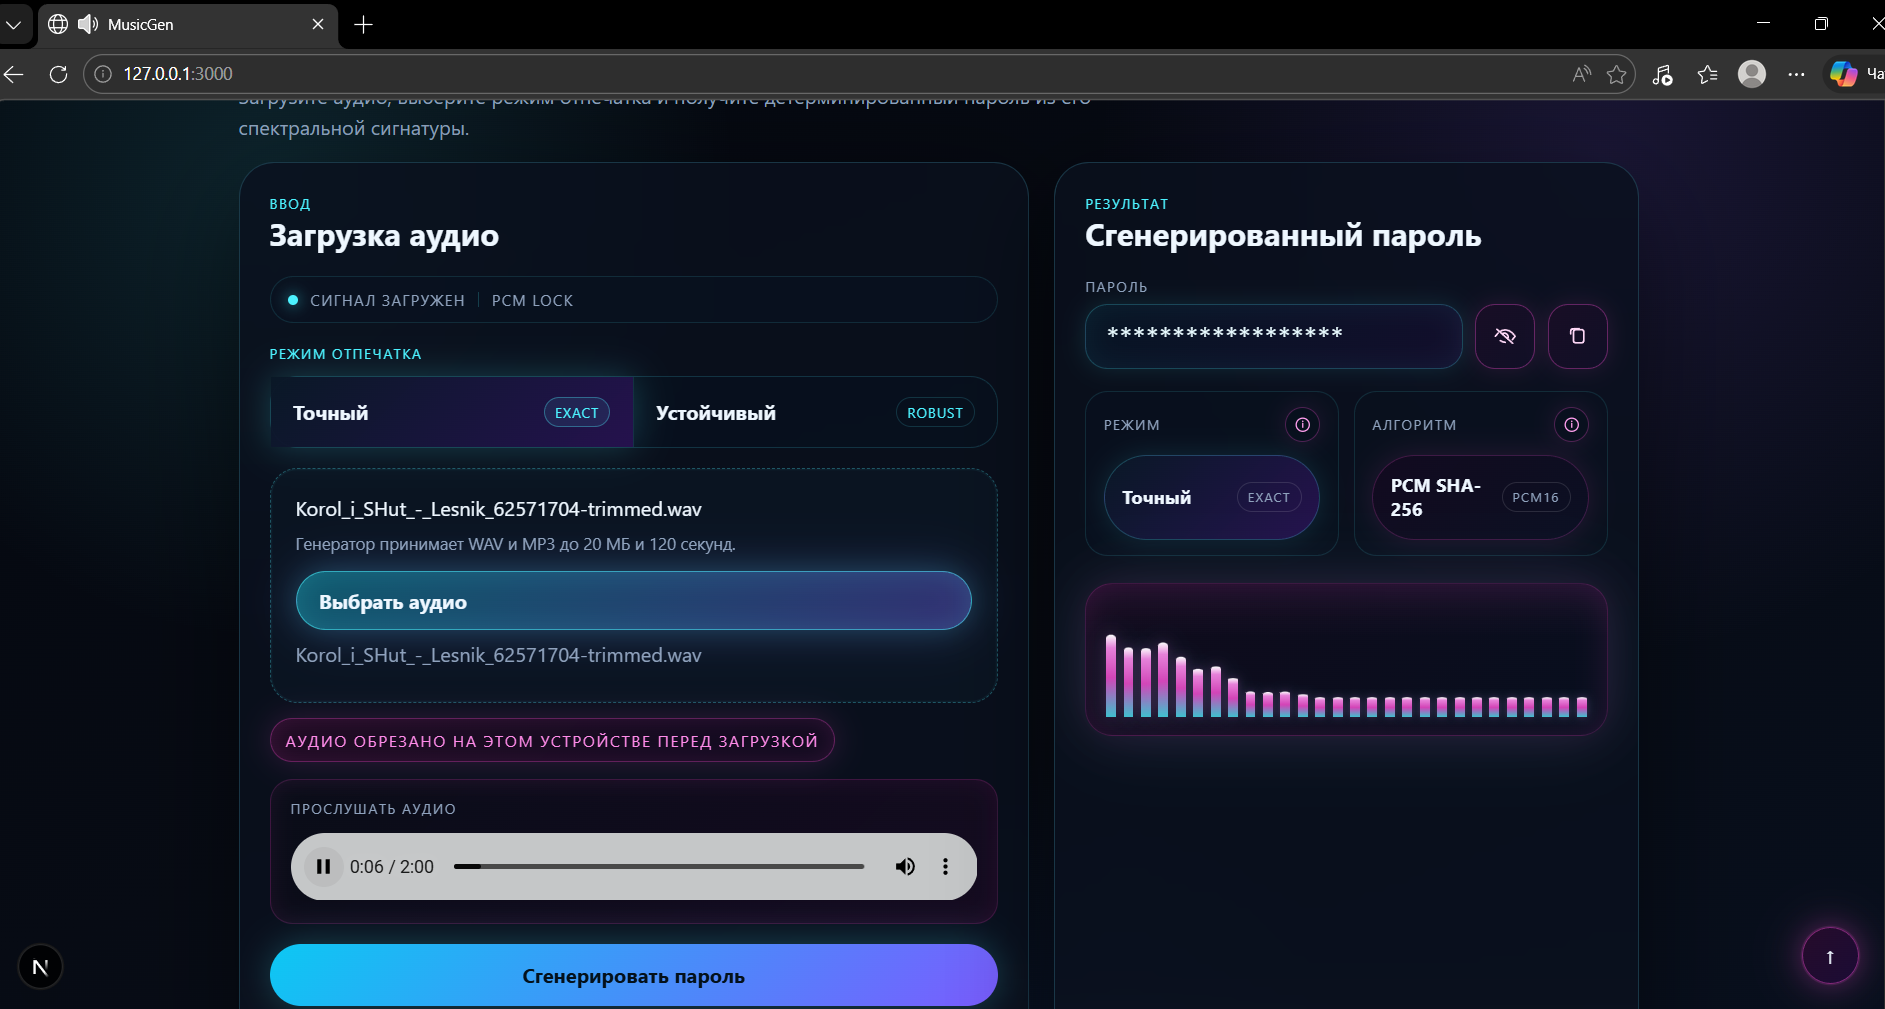
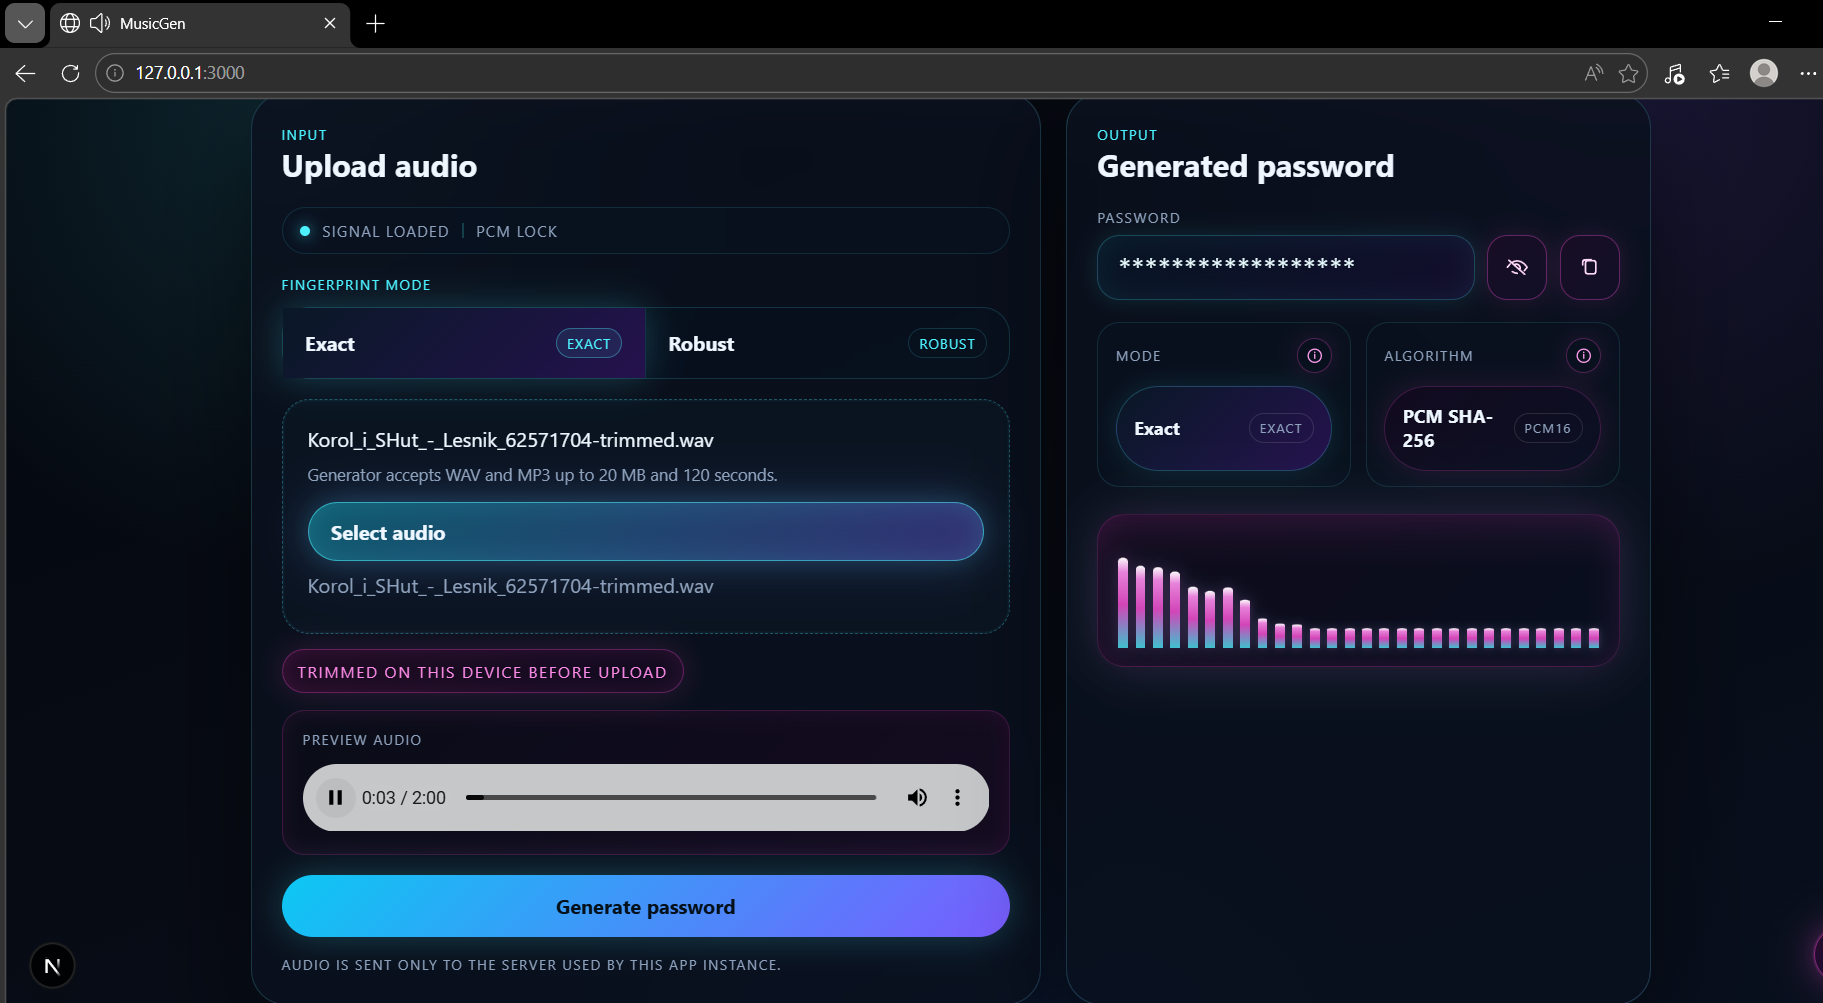
MusicGen: refresh README screenshots in English

diff --git a/README.md b/README.md
@@ -115,7 +115,7 @@ If you want the build and packaging steps, use the full [technical guide](d:/pro
 
 ![MusicGen home screen](docs/screenshots/home-main.png)
 
-The main web screen with the logo, language switcher, and the project pitch.
+The main English web screen with the logo, language switcher, and the core layout.
 
 ### Mode selection and audio upload
 
@@ -133,19 +133,19 @@ If the uploaded file exceeds the configured limits, MusicGen offers to trim it b
 
 ![Generated password](docs/screenshots/generated-password.png)
 
-The result panel with the generated password, mode, algorithm, and quick actions such as show, hide, and copy.
+The result panel with the generated password, mode, algorithm, and quick actions such as show, hide, and copy after an English-language run.
 
 ### Playback visualization
 
 ![Playback visualization](docs/screenshots/audio-visualizer.png)
 
-The neon playback visualizer that reacts while the uploaded audio is playing.
+The neon playback visualizer reacting to the uploaded audio during playback.
 
 ### Desktop version
 
 ![MusicGen desktop version](docs/screenshots/desktop-version.png)
 
-The standalone offline build that mirrors the web style in a native app window.
+The standalone offline desktop build in English with the same visual style as the web app.
 
 ## For developers
 
